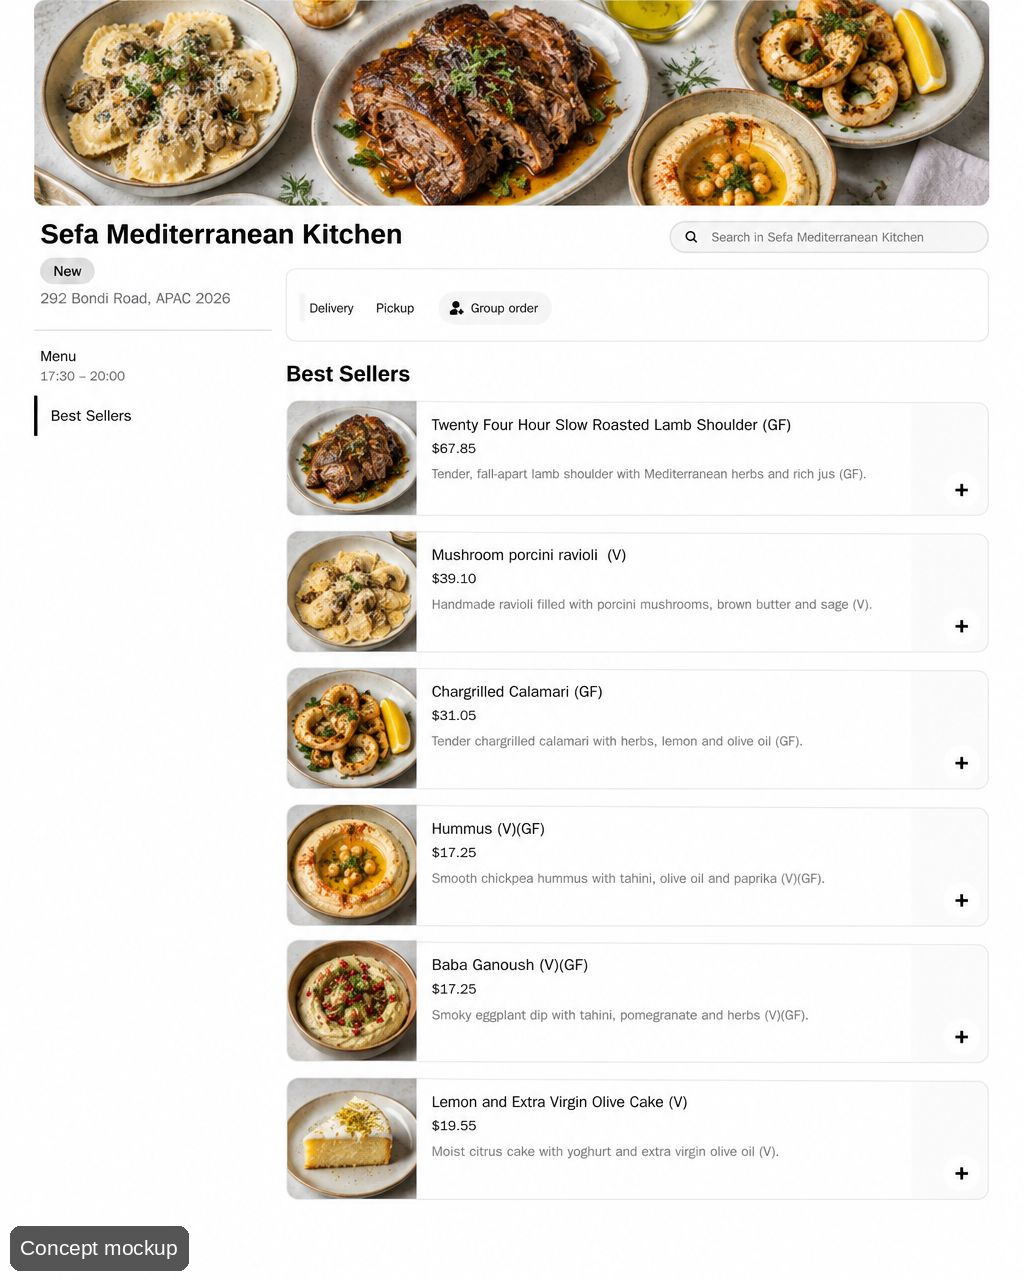
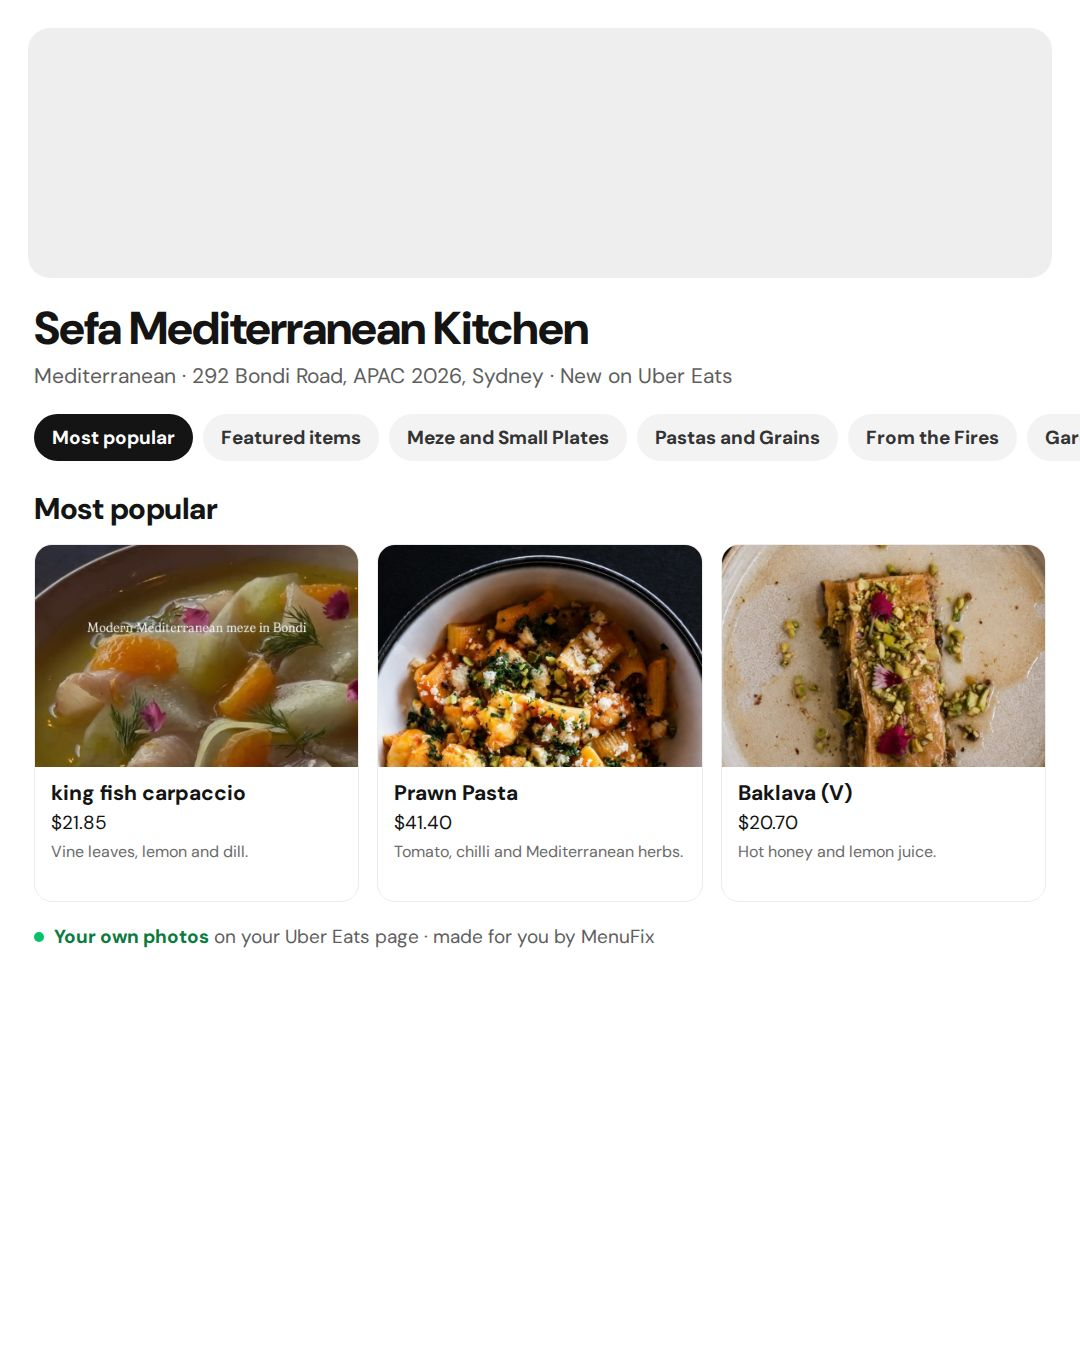
Personal pages: 4 added or updated

diff --git a/for/charlies-on-george-s6wysv/index.html b/for/charlies-on-george-s6wysv/index.html
@@ -1,0 +1,77 @@
+<!doctype html>
+<html lang="en">
+<head>
+<meta charset="utf-8">
+<meta name="viewport" content="width=device-width, initial-scale=1">
+<meta name="robots" content="noindex, nofollow">
+<meta name="theme-color" content="#ffffff">
+<title>Charlie&#x27;s On George: a free concept for your Uber Eats page | MenuFix</title>
+<link rel="icon" href="/favicon.ico" sizes="48x48"><link rel="icon" href="/favicon-192.png" type="image/png" sizes="192x192"><link rel="apple-touch-icon" href="/apple-touch-icon.png"><script data-goatcounter="https://menufix.goatcounter.com/count" async src="//gc.zgo.at/count.js"></script>
+<link rel="preconnect" href="https://fonts.googleapis.com"><link rel="preconnect" href="https://fonts.gstatic.com" crossorigin>
+<link href="https://fonts.googleapis.com/css2?family=Plus+Jakarta+Sans:wght@500;600;700;800&display=swap" rel="stylesheet">
+<link rel="stylesheet" href="/style.css">
+<style>
+  .pp-compare { display: grid; grid-template-columns: 1fr 1fr; gap: 32px; align-items: start; }
+  .pp-compare figure { margin: 0; }
+  .pp-compare img { width: 100%; border-radius: 22px; box-shadow: var(--shadow); border: 1px solid var(--line); background: #fff; }
+  .pp-compare figcaption { margin-top: 14px; text-align: center; font-size: 14.5px; color: var(--muted); font-weight: 600; }
+  .pp-findings { list-style: none; padding: 0; margin: 0; display: grid; gap: 14px; }
+  .pp-findings li { background: #fff; border: 1px solid var(--line); border-radius: 20px; padding: 18px 22px; font-weight: 600; color: var(--ink2); box-shadow: var(--shadow); }
+  .pp-packs { display: grid; grid-template-columns: repeat(3, 1fr); gap: 20px; }
+  .pp-packs .card h3 { font-size: 20px; }
+  .pp-cta { text-align: center; margin-top: 36px; }
+  .pp-cta p { margin: 16px 0 0; color: var(--muted); }
+  .pp-guarantee { max-width: 560px; margin: 0 auto 22px; padding: 14px 18px; border-radius: 14px; background: var(--mint, #e8f7ee); color: var(--ink, #1b1b1f); }
+  .pp-guarantee b { display: block; color: var(--green, #16a35a); margin-bottom: 2px; }
+  @media (max-width: 760px) { .pp-compare, .pp-packs { grid-template-columns: 1fr; } }
+</style>
+</head>
+<body>
+<header class="nav"><div class="wrap">
+  <a class="logo" href="/"><img src="/img/logo-mark.png" alt=""><b>menu<span>fix</span></b></a>
+</div></header>
+<header class="page-head" style="padding-bottom:30px"><div class="wrap">
+  <span class="eyebrow">Made for Charlie&#x27;s On George</span>
+  <h1 style="max-width:900px">Charlie&#x27;s On George, here's a free concept for your <span class="hl">Uber Eats page.</span></h1>
+  <p class="lead">Below is your Uber Eats page as it looks today, and our concept of how it could look. Nothing on your real page has changed.</p>
+</div></header>
+
+<section class="tight" style="padding-top:10px"><div class="wrap">
+  <div class="pp-compare">
+    <figure><span class="pill">Your page today</span><img src="today.jpg" alt="Charlie&#x27;s On George on Uber Eats today" width="1200" height="1630"><figcaption>Your Uber Eats page today</figcaption></figure>
+    <figure><span class="pill on">Concept</span><img src="concept.jpg" alt="Concept for the Charlie&#x27;s On George Uber Eats page" width="1024" height="1280"><figcaption>Concept mockup, nothing on your real page has changed</figcaption></figure>
+  </div>
+  <p class="note" style="text-align:center;margin-top:22px">This concept is based on your current page. It shows only your own dishes and prices, and nothing on your real page has changed.</p>
+</div></section>
+<section class="tight bg-cream"><div class="narrow">
+  <div class="head center" style="margin-bottom:26px"><span class="eyebrow">What we noticed</span><h2>Three things on your page today</h2></div>
+  <ul class="pp-findings"><li>Uber Eats says customers are more likely to order when at least 70% of the dishes have a photo and a description. Today 0% of yours do.</li><li>None of the 80 items we read on your menu has a photo.</li><li>16 of the 80 items have no description, so customers only see a name and a price.</li></ul>
+</div></section>
+<section class="tight"><div class="wrap">
+  <div class="head center" style="margin-bottom:30px"><span class="eyebrow">What we would do</span><h2>Pick what you need.</h2></div>
+  <div class="pp-packs">
+    <div class="card"><h3>Menu Fix</h3><p>Typos and wording fixed, every dish rewritten to sell, best sellers moved to the top and categories in the right order.</p></div>
+    <div class="card"><h3>Menu and Photos</h3><p>Everything in Menu Fix, plus your real photos of up to 15 dishes enhanced and sized for Uber Eats.</p></div>
+    <div class="card"><h3>Full Makeover</h3><p>We make every change on your Uber Eats page for you, with photos for your whole menu and one month of updates.</p></div>
+  </div>
+  <div class="pp-cta">
+    <div class="pp-guarantee"><b>No risk for you</b>You only pay once you&#39;ve seen your finished page and you&#39;re happy with it.</div>
+    <a class="btn primary" href="https://getmenufix.com/pricing.html?ref=1039">See prices <span class="arr">→</span></a>
+    
+    <p>Reply to my email or message us on Instagram <a href="https://www.instagram.com/menufix.official/" rel="noopener" target="_blank">@menufix.official</a></p>
+  </div>
+</div></section>
+
+<footer><div class="wrap">
+  <div class="top">
+    <div><a class="logo" href="/"><img src="/img/logo-mark.png" alt=""><b>menu<span>fix</span></b></a>
+      <p class="muted" style="max-width:340px">Uber Eats page makeovers for independent restaurants, cafés and bakeries. Clear menus, better photos of your real food, done for you.</p></div>
+    <div><h4>Services</h4><a href="/services.html">Menu rewrite</a><a href="/services.html#photos">Photo enhancement</a><a href="/services.html#done">Done for you</a><a href="/examples.html">Examples</a></div>
+    <div><h4>Company</h4><a href="/about.html">About</a><a href="/guides/index.html">Guides</a><a href="/how-it-works.html">How it works</a><a href="https://getmenufix.com/pricing.html?ref=1039">Pricing</a><a href="/faq.html">FAQ</a><a href="/referral.html">Earn 20%</a></div>
+    <div><h4>Get started</h4><a class="mailto" href="mailto:hello@getmenufix.com">hello@getmenufix.com</a><a href="/privacy.html">Privacy</a><a href="/terms.html">Terms</a></div>
+  </div>
+  <div class="bottom"><span>© 2026 MenuFix. All rights reserved.</span><a href="https://www.instagram.com/menufix.official/" rel="me noopener" target="_blank">Instagram @menufix.official</a><span>MenuFix is independent and not affiliated with Uber or Uber Eats.</span></div>
+</div></footer>
+<script src="/site.js"></script>
+</body>
+</html>

diff --git a/for/meryenda-cafe-3dskdg/index.html b/for/meryenda-cafe-3dskdg/index.html
@@ -1,0 +1,77 @@
+<!doctype html>
+<html lang="en">
+<head>
+<meta charset="utf-8">
+<meta name="viewport" content="width=device-width, initial-scale=1">
+<meta name="robots" content="noindex, nofollow">
+<meta name="theme-color" content="#ffffff">
+<title>Meryenda Cafe: a free concept for your Uber Eats page | MenuFix</title>
+<link rel="icon" href="/favicon.ico" sizes="48x48"><link rel="icon" href="/favicon-192.png" type="image/png" sizes="192x192"><link rel="apple-touch-icon" href="/apple-touch-icon.png"><script data-goatcounter="https://menufix.goatcounter.com/count" async src="//gc.zgo.at/count.js"></script>
+<link rel="preconnect" href="https://fonts.googleapis.com"><link rel="preconnect" href="https://fonts.gstatic.com" crossorigin>
+<link href="https://fonts.googleapis.com/css2?family=Plus+Jakarta+Sans:wght@500;600;700;800&display=swap" rel="stylesheet">
+<link rel="stylesheet" href="/style.css">
+<style>
+  .pp-compare { display: grid; grid-template-columns: 1fr 1fr; gap: 32px; align-items: start; }
+  .pp-compare figure { margin: 0; }
+  .pp-compare img { width: 100%; border-radius: 22px; box-shadow: var(--shadow); border: 1px solid var(--line); background: #fff; }
+  .pp-compare figcaption { margin-top: 14px; text-align: center; font-size: 14.5px; color: var(--muted); font-weight: 600; }
+  .pp-findings { list-style: none; padding: 0; margin: 0; display: grid; gap: 14px; }
+  .pp-findings li { background: #fff; border: 1px solid var(--line); border-radius: 20px; padding: 18px 22px; font-weight: 600; color: var(--ink2); box-shadow: var(--shadow); }
+  .pp-packs { display: grid; grid-template-columns: repeat(3, 1fr); gap: 20px; }
+  .pp-packs .card h3 { font-size: 20px; }
+  .pp-cta { text-align: center; margin-top: 36px; }
+  .pp-cta p { margin: 16px 0 0; color: var(--muted); }
+  .pp-guarantee { max-width: 560px; margin: 0 auto 22px; padding: 14px 18px; border-radius: 14px; background: var(--mint, #e8f7ee); color: var(--ink, #1b1b1f); }
+  .pp-guarantee b { display: block; color: var(--green, #16a35a); margin-bottom: 2px; }
+  @media (max-width: 760px) { .pp-compare, .pp-packs { grid-template-columns: 1fr; } }
+</style>
+</head>
+<body>
+<header class="nav"><div class="wrap">
+  <a class="logo" href="/"><img src="/img/logo-mark.png" alt=""><b>menu<span>fix</span></b></a>
+</div></header>
+<header class="page-head" style="padding-bottom:30px"><div class="wrap">
+  <span class="eyebrow">Made for Meryenda Cafe</span>
+  <h1 style="max-width:900px">Meryenda Cafe, here's a free concept for your <span class="hl">Uber Eats page.</span></h1>
+  <p class="lead">Below is your Uber Eats page as it looks today, and our concept of how it could look. Nothing on your real page has changed.</p>
+</div></header>
+
+<section class="tight" style="padding-top:10px"><div class="wrap">
+  <div class="pp-compare">
+    <figure><span class="pill">Your page today</span><img src="today.jpg" alt="Meryenda Cafe on Uber Eats today" width="1200" height="1630"><figcaption>Your Uber Eats page today</figcaption></figure>
+    <figure><span class="pill on">Concept</span><img src="concept.jpg" alt="Concept for the Meryenda Cafe Uber Eats page" width="1024" height="1280"><figcaption>Concept mockup, nothing on your real page has changed</figcaption></figure>
+  </div>
+  <p class="note" style="text-align:center;margin-top:22px">This concept is based on your current page. It shows only your own dishes and prices, and nothing on your real page has changed.</p>
+</div></section>
+<section class="tight bg-cream"><div class="narrow">
+  <div class="head center" style="margin-bottom:26px"><span class="eyebrow">What we noticed</span><h2>Three things on your page today</h2></div>
+  <ul class="pp-findings"><li>Uber Eats says customers are more likely to order when at least 70% of the dishes have a photo and a description. Today 0% of yours do.</li><li>18 of the 40 items on your menu have no photo.</li><li>31 of the 40 items have no description, so customers only see a name and a price.</li></ul>
+</div></section>
+<section class="tight"><div class="wrap">
+  <div class="head center" style="margin-bottom:30px"><span class="eyebrow">What we would do</span><h2>Pick what you need.</h2></div>
+  <div class="pp-packs">
+    <div class="card"><h3>Menu Fix</h3><p>Typos and wording fixed, every dish rewritten to sell, best sellers moved to the top and categories in the right order.</p></div>
+    <div class="card"><h3>Menu and Photos</h3><p>Everything in Menu Fix, plus your real photos of up to 15 dishes enhanced and sized for Uber Eats.</p></div>
+    <div class="card"><h3>Full Makeover</h3><p>We make every change on your Uber Eats page for you, with photos for your whole menu and one month of updates.</p></div>
+  </div>
+  <div class="pp-cta">
+    <div class="pp-guarantee"><b>No risk for you</b>You only pay once you&#39;ve seen your finished page and you&#39;re happy with it.</div>
+    <a class="btn primary" href="https://getmenufix.com/pricing.html?ref=1021">See prices <span class="arr">→</span></a>
+    
+    <p>Reply to my email or message us on Instagram <a href="https://www.instagram.com/menufix.official/" rel="noopener" target="_blank">@menufix.official</a></p>
+  </div>
+</div></section>
+
+<footer><div class="wrap">
+  <div class="top">
+    <div><a class="logo" href="/"><img src="/img/logo-mark.png" alt=""><b>menu<span>fix</span></b></a>
+      <p class="muted" style="max-width:340px">Uber Eats page makeovers for independent restaurants, cafés and bakeries. Clear menus, better photos of your real food, done for you.</p></div>
+    <div><h4>Services</h4><a href="/services.html">Menu rewrite</a><a href="/services.html#photos">Photo enhancement</a><a href="/services.html#done">Done for you</a><a href="/examples.html">Examples</a></div>
+    <div><h4>Company</h4><a href="/about.html">About</a><a href="/guides/index.html">Guides</a><a href="/how-it-works.html">How it works</a><a href="https://getmenufix.com/pricing.html?ref=1021">Pricing</a><a href="/faq.html">FAQ</a><a href="/referral.html">Earn 20%</a></div>
+    <div><h4>Get started</h4><a class="mailto" href="mailto:hello@getmenufix.com">hello@getmenufix.com</a><a href="/privacy.html">Privacy</a><a href="/terms.html">Terms</a></div>
+  </div>
+  <div class="bottom"><span>© 2026 MenuFix. All rights reserved.</span><a href="https://www.instagram.com/menufix.official/" rel="me noopener" target="_blank">Instagram @menufix.official</a><span>MenuFix is independent and not affiliated with Uber or Uber Eats.</span></div>
+</div></footer>
+<script src="/site.js"></script>
+</body>
+</html>

diff --git a/for/ape-cafe-s8ac7t/index.html b/for/ape-cafe-s8ac7t/index.html
@@ -1,0 +1,77 @@
+<!doctype html>
+<html lang="en">
+<head>
+<meta charset="utf-8">
+<meta name="viewport" content="width=device-width, initial-scale=1">
+<meta name="robots" content="noindex, nofollow">
+<meta name="theme-color" content="#ffffff">
+<title>Ape Cafe: a free concept for your Uber Eats page | MenuFix</title>
+<link rel="icon" href="/favicon.ico" sizes="48x48"><link rel="icon" href="/favicon-192.png" type="image/png" sizes="192x192"><link rel="apple-touch-icon" href="/apple-touch-icon.png"><script data-goatcounter="https://menufix.goatcounter.com/count" async src="//gc.zgo.at/count.js"></script>
+<link rel="preconnect" href="https://fonts.googleapis.com"><link rel="preconnect" href="https://fonts.gstatic.com" crossorigin>
+<link href="https://fonts.googleapis.com/css2?family=Plus+Jakarta+Sans:wght@500;600;700;800&display=swap" rel="stylesheet">
+<link rel="stylesheet" href="/style.css">
+<style>
+  .pp-compare { display: grid; grid-template-columns: 1fr 1fr; gap: 32px; align-items: start; }
+  .pp-compare figure { margin: 0; }
+  .pp-compare img { width: 100%; border-radius: 22px; box-shadow: var(--shadow); border: 1px solid var(--line); background: #fff; }
+  .pp-compare figcaption { margin-top: 14px; text-align: center; font-size: 14.5px; color: var(--muted); font-weight: 600; }
+  .pp-findings { list-style: none; padding: 0; margin: 0; display: grid; gap: 14px; }
+  .pp-findings li { background: #fff; border: 1px solid var(--line); border-radius: 20px; padding: 18px 22px; font-weight: 600; color: var(--ink2); box-shadow: var(--shadow); }
+  .pp-packs { display: grid; grid-template-columns: repeat(3, 1fr); gap: 20px; }
+  .pp-packs .card h3 { font-size: 20px; }
+  .pp-cta { text-align: center; margin-top: 36px; }
+  .pp-cta p { margin: 16px 0 0; color: var(--muted); }
+  .pp-guarantee { max-width: 560px; margin: 0 auto 22px; padding: 14px 18px; border-radius: 14px; background: var(--mint, #e8f7ee); color: var(--ink, #1b1b1f); }
+  .pp-guarantee b { display: block; color: var(--green, #16a35a); margin-bottom: 2px; }
+  @media (max-width: 760px) { .pp-compare, .pp-packs { grid-template-columns: 1fr; } }
+</style>
+</head>
+<body>
+<header class="nav"><div class="wrap">
+  <a class="logo" href="/"><img src="/img/logo-mark.png" alt=""><b>menu<span>fix</span></b></a>
+</div></header>
+<header class="page-head" style="padding-bottom:30px"><div class="wrap">
+  <span class="eyebrow">Made for Ape Cafe</span>
+  <h1 style="max-width:900px">Ape Cafe, here's a free concept for your <span class="hl">Uber Eats page.</span></h1>
+  <p class="lead">Below is your Uber Eats page as it looks today, and our concept of how it could look. Nothing on your real page has changed.</p>
+</div></header>
+
+<section class="tight" style="padding-top:10px"><div class="wrap">
+  <div class="pp-compare">
+    <figure><span class="pill">Your page today</span><img src="today.jpg" alt="Ape Cafe on Uber Eats today" width="1200" height="1630"><figcaption>Your Uber Eats page today</figcaption></figure>
+    <figure><span class="pill on">Concept</span><img src="concept.jpg" alt="Concept for the Ape Cafe Uber Eats page" width="1024" height="1280"><figcaption>Concept mockup, nothing on your real page has changed</figcaption></figure>
+  </div>
+  <p class="note" style="text-align:center;margin-top:22px">This concept is based on your current page. It shows only your own dishes and prices, and nothing on your real page has changed.</p>
+</div></section>
+<section class="tight bg-cream"><div class="narrow">
+  <div class="head center" style="margin-bottom:26px"><span class="eyebrow">What we noticed</span><h2>On your page today</h2></div>
+  <ul class="pp-findings"><li>Uber Eats says customers are more likely to order when at least 70% of the dishes have a photo and a description. Today 0% of yours do.</li><li>None of the 55 items we read on your menu has a photo.</li></ul>
+</div></section>
+<section class="tight"><div class="wrap">
+  <div class="head center" style="margin-bottom:30px"><span class="eyebrow">What we would do</span><h2>Pick what you need.</h2></div>
+  <div class="pp-packs">
+    <div class="card"><h3>Menu Fix</h3><p>Typos and wording fixed, every dish rewritten to sell, best sellers moved to the top and categories in the right order.</p></div>
+    <div class="card"><h3>Menu and Photos</h3><p>Everything in Menu Fix, plus your real photos of up to 15 dishes enhanced and sized for Uber Eats.</p></div>
+    <div class="card"><h3>Full Makeover</h3><p>We make every change on your Uber Eats page for you, with photos for your whole menu and one month of updates.</p></div>
+  </div>
+  <div class="pp-cta">
+    <div class="pp-guarantee"><b>No risk for you</b>You only pay once you&#39;ve seen your finished page and you&#39;re happy with it.</div>
+    <a class="btn primary" href="https://getmenufix.com/pricing.html?ref=1034">See prices <span class="arr">→</span></a>
+    
+    <p>Reply to my email or message us on Instagram <a href="https://www.instagram.com/menufix.official/" rel="noopener" target="_blank">@menufix.official</a></p>
+  </div>
+</div></section>
+
+<footer><div class="wrap">
+  <div class="top">
+    <div><a class="logo" href="/"><img src="/img/logo-mark.png" alt=""><b>menu<span>fix</span></b></a>
+      <p class="muted" style="max-width:340px">Uber Eats page makeovers for independent restaurants, cafés and bakeries. Clear menus, better photos of your real food, done for you.</p></div>
+    <div><h4>Services</h4><a href="/services.html">Menu rewrite</a><a href="/services.html#photos">Photo enhancement</a><a href="/services.html#done">Done for you</a><a href="/examples.html">Examples</a></div>
+    <div><h4>Company</h4><a href="/about.html">About</a><a href="/guides/index.html">Guides</a><a href="/how-it-works.html">How it works</a><a href="https://getmenufix.com/pricing.html?ref=1034">Pricing</a><a href="/faq.html">FAQ</a><a href="/referral.html">Earn 20%</a></div>
+    <div><h4>Get started</h4><a class="mailto" href="mailto:hello@getmenufix.com">hello@getmenufix.com</a><a href="/privacy.html">Privacy</a><a href="/terms.html">Terms</a></div>
+  </div>
+  <div class="bottom"><span>© 2026 MenuFix. All rights reserved.</span><a href="https://www.instagram.com/menufix.official/" rel="me noopener" target="_blank">Instagram @menufix.official</a><span>MenuFix is independent and not affiliated with Uber or Uber Eats.</span></div>
+</div></footer>
+<script src="/site.js"></script>
+</body>
+</html>

diff --git a/for/sefa-mediterranean-kitchen-zc9erc/index.html b/for/sefa-mediterranean-kitchen-zc9erc/index.html
@@ -39,13 +39,13 @@
 <section class="tight" style="padding-top:10px"><div class="wrap">
   <div class="pp-compare">
     <figure><span class="pill">Your page today</span><img src="today.jpg" alt="Sefa Mediterranean Kitchen on Uber Eats today" width="1200" height="1630"><figcaption>Your Uber Eats page today</figcaption></figure>
-    <figure><span class="pill on">Concept</span><img src="concept.jpg" alt="Concept for the Sefa Mediterranean Kitchen Uber Eats page" width="1024" height="1280"><figcaption>Concept mockup, nothing on your real page has changed</figcaption></figure>
+    <figure><span class="pill on">Concept</span><img src="concept.jpg" alt="Concept for the Sefa Mediterranean Kitchen Uber Eats page" width="1080" height="1350"><figcaption>Concept mockup, nothing on your real page has changed</figcaption></figure>
   </div>
   <p class="note" style="text-align:center;margin-top:22px">This concept is based on your current page. It shows only your own dishes and prices, and nothing on your real page has changed.</p>
 </div></section>
 <section class="tight bg-cream"><div class="narrow">
-  <div class="head center" style="margin-bottom:26px"><span class="eyebrow">What we noticed</span><h2>On your page today</h2></div>
-  <ul class="pp-findings"><li>None of the 28 items we read on your menu has a photo.</li><li>1 of the 28 items has no description, so customers only see a name and a price.</li></ul>
+  <div class="head center" style="margin-bottom:26px"><span class="eyebrow">What we noticed</span><h2>Three things on your page today</h2></div>
+  <ul class="pp-findings"><li>Uber Eats says customers are more likely to order when at least 70% of the dishes have a photo and a description. Today 0% of yours do.</li><li>None of the 28 items we read on your menu has a photo.</li><li>1 of the 28 items has no description, so customers only see a name and a price.</li></ul>
 </div></section>
 <section class="tight"><div class="wrap">
   <div class="head center" style="margin-bottom:30px"><span class="eyebrow">What we would do</span><h2>Pick what you need.</h2></div>
@@ -57,6 +57,7 @@
   <div class="pp-cta">
     <div class="pp-guarantee"><b>No risk for you</b>You only pay once you&#39;ve seen your finished page and you&#39;re happy with it.</div>
     <a class="btn primary" href="https://getmenufix.com/pricing.html?ref=661">See prices <span class="arr">→</span></a>
+    
     <p>Reply to my email or message us on Instagram <a href="https://www.instagram.com/menufix.official/" rel="noopener" target="_blank">@menufix.official</a></p>
   </div>
 </div></section>
@@ -66,7 +67,7 @@
     <div><a class="logo" href="/"><img src="/img/logo-mark.png" alt=""><b>menu<span>fix</span></b></a>
       <p class="muted" style="max-width:340px">Uber Eats page makeovers for independent restaurants, cafés and bakeries. Clear menus, better photos of your real food, done for you.</p></div>
     <div><h4>Services</h4><a href="/services.html">Menu rewrite</a><a href="/services.html#photos">Photo enhancement</a><a href="/services.html#done">Done for you</a><a href="/examples.html">Examples</a></div>
-    <div><h4>Company</h4><a href="/about.html">About</a><a href="/guides/">Guides</a><a href="/how-it-works.html">How it works</a><a href="https://getmenufix.com/pricing.html?ref=661">Pricing</a><a href="/faq.html">FAQ</a><a href="/referral.html">Earn 20%</a></div>
+    <div><h4>Company</h4><a href="/about.html">About</a><a href="/guides/index.html">Guides</a><a href="/how-it-works.html">How it works</a><a href="https://getmenufix.com/pricing.html?ref=661">Pricing</a><a href="/faq.html">FAQ</a><a href="/referral.html">Earn 20%</a></div>
     <div><h4>Get started</h4><a class="mailto" href="mailto:hello@getmenufix.com">hello@getmenufix.com</a><a href="/privacy.html">Privacy</a><a href="/terms.html">Terms</a></div>
   </div>
   <div class="bottom"><span>© 2026 MenuFix. All rights reserved.</span><a href="https://www.instagram.com/menufix.official/" rel="me noopener" target="_blank">Instagram @menufix.official</a><span>MenuFix is independent and not affiliated with Uber or Uber Eats.</span></div>
